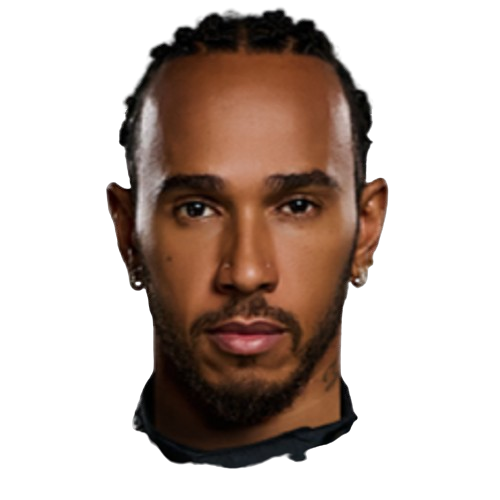
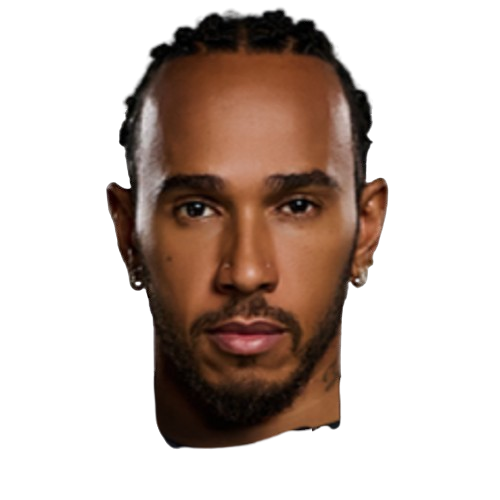
upraveny sainz/hamilton + kombinézy part I.

Changed region(s): [[0.24, 0.72, 0.72, 0.96]]

diff --git a/F1 Manager 2026/Picking Team/Drivers_Pick.xaml b/F1 Manager 2026/Picking Team/Drivers_Pick.xaml
@@ -1,7 +1,11 @@
 <Window x:Class="F1_Manager_2026.Picking_Team.Drivers_Pick"
         xmlns="http://schemas.microsoft.com/winfx/2006/xaml/presentation"
         xmlns:x="http://schemas.microsoft.com/winfx/2006/xaml"
-        WindowState="Maximized" WindowStyle="None" Title="Drivers_Pick" Height="1080" Width="1920">
+        WindowState="Maximized" 
+        WindowStyle="None" 
+        Title="Drivers_Pick" 
+        Height="1080" 
+        Width="1920">
 
     <Grid Background="#0F0F0F">
         <Grid.RowDefinitions>
@@ -14,10 +18,10 @@
                 <Setter Property="Background" Value="#1A1A1A"/>
                 <Setter Property="BorderBrush" Value="#333333"/>
                 <Setter Property="BorderThickness" Value="2"/>
-                <Setter Property="CornerRadius" Value="8"/>
-                <Setter Property="Margin" Value="15"/>
-                <Setter Property="Width" Value="250"/>
-                <Setter Property="Height" Value="380"/>
+                <Setter Property="CornerRadius" Value="12"/>
+                <Setter Property="Margin" Value="10"/>
+                <Setter Property="Width" Value="280"/>
+                <Setter Property="Height" Value="420"/>
                 <Style.Triggers>
                     <Trigger Property="IsMouseOver" Value="True">
                         <Setter Property="BorderBrush" Value="Red"/>
@@ -27,7 +31,8 @@
         </Grid.Resources>
 
         <Border Grid.Row="0" Background="#1A1A1A" BorderBrush="Red" BorderThickness="0,0,0,3">
-            <Label Content="F1 DRIVER SELECTION 2026" Foreground="White" FontSize="32" HorizontalAlignment="Center" VerticalAlignment="Center" FontWeight="Bold"/>
+            <Label Content="F1 DRIVER SELECTION 2026" Foreground="White" FontSize="32" 
+                   HorizontalAlignment="Center" VerticalAlignment="Center" FontWeight="Bold"/>
         </Border>
 
         <ScrollViewer Grid.Row="1" VerticalScrollBarVisibility="Auto" Margin="10">
@@ -37,6 +42,7 @@
                         <WrapPanel HorizontalAlignment="Center"/>
                     </ItemsPanelTemplate>
                 </ItemsControl.ItemsPanel>
+
                 <ItemsControl.ItemTemplate>
                     <DataTemplate>
                         <Border Style="{StaticResource DriverCardStyle}">
@@ -46,16 +52,38 @@
                                     <RowDefinition Height="*"/>
                                     <RowDefinition Height="Auto"/>
                                 </Grid.RowDefinitions>
-                                <TextBlock Text="{Binding Skill}" Foreground="Red" FontSize="32" FontWeight="Bold" HorizontalAlignment="Right" Margin="0,5,10,0" Panel.ZIndex="10"/>
-                                <Grid Grid.Row="1">
-                                    <Image Source="{Binding SuitPath}" VerticalAlignment="Bottom" Stretch="Uniform" Height="220"/>
-                                    <Image Source="{Binding PhotoPath}" Width="160" VerticalAlignment="Top" Stretch="Uniform" Margin="0,10,0,0"/>
-                                </Grid>
-                                <StackPanel Grid.Row="2" Background="#111" Margin="2">
-                                    <TextBlock Text="{Binding Name}" Foreground="White" FontSize="18" FontWeight="Bold" HorizontalAlignment="Center" Margin="0,5,0,0"/>
-                                    <TextBlock Text="{Binding Team}" Foreground="#888" FontSize="12" HorizontalAlignment="Center" Margin="0,0,0,5"/>
-                                    <TextBlock Text="{Binding FormattedCost}" Foreground="White" FontSize="16" HorizontalAlignment="Center" Margin="0,10,0,10" FontWeight="Bold"/>
-                                </StackPanel>
+
+                                <TextBlock Text="{Binding Skill}" Foreground="Red" FontSize="28" 
+                                           FontWeight="Bold" HorizontalAlignment="Right" 
+                                           Margin="0,10,15,0" Panel.ZIndex="10"/>
+
+                                <Viewbox Grid.Row="1" Stretch="Uniform" Margin="10,0,10,0">
+                                    <Grid Width="300" Height="400">
+                                        <Image Source="{Binding SuitPath}" 
+                                               VerticalAlignment="Bottom" 
+                                               Stretch="Uniform"/>
+
+                                        <Image Source="{Binding PhotoPath}" 
+                                               Width="220" 
+                                               VerticalAlignment="Top" 
+                                               Margin="10,35,0,0" 
+                                               Stretch="Uniform"/>
+                                    </Grid>
+                                </Viewbox>
+
+                                <Border Grid.Row="2" Background="#111" CornerRadius="0,0,10,10">
+                                    <StackPanel Margin="10">
+                                        <TextBlock Text="{Binding Name}" Foreground="White" FontSize="18" 
+                                                   FontWeight="Bold" HorizontalAlignment="Center"/>
+                                        <TextBlock Text="{Binding Team}" Foreground="#888" FontSize="11" 
+                                                   HorizontalAlignment="Center" Margin="0,2,0,8"/>
+
+                                        <Border Background="#222" CornerRadius="5" Padding="5">
+                                            <TextBlock Text="{Binding FormattedCost}" Foreground="White" 
+                                                       FontSize="15" HorizontalAlignment="Center" FontWeight="Bold"/>
+                                        </Border>
+                                    </StackPanel>
+                                </Border>
                             </Grid>
                         </Border>
                     </DataTemplate>

diff --git a/F1 Manager 2026/Drivers.cs b/F1 Manager 2026/Drivers.cs
@@ -27,18 +27,18 @@ namespace F1_Manager_2026
         // Logika priradenia kombinézy podľa názvu tímu
         private void UpdateSuitPath()
         {
-            string folder = "Assets/Suits/";
+            string folder = "/Images/";
             SuitPath = _team switch
             {
                 "McLaren" => folder + "suit_mclaren.png",
                 "Ferrari" => folder + "suit_ferrari.png",
-                "Red Bull Racing" => folder + "suit_redbull.png",
+                "Red Bull Racing" => folder + "RB_suit.png",
                 "Mercedes" => folder + "suit_mercedes.png",
                 "Aston Martin" => folder + "suit_astonmartin.png",
                 "Alpine" => folder + "suit_alpine.png",
                 "Haas" => folder + "suit_haas.png",
                 "RB" => folder + "suit_rb.png",
-                "Williams" => folder + "suit_williams.png",
+                "Williams" => folder + "suit_williams1.png",
                 "Cadillac" => folder + "suit_cadillac.png",
                 "Audi" => folder + "suit_audi.png",
                 "ART Grand Prix" => folder + "suit_art.png",
